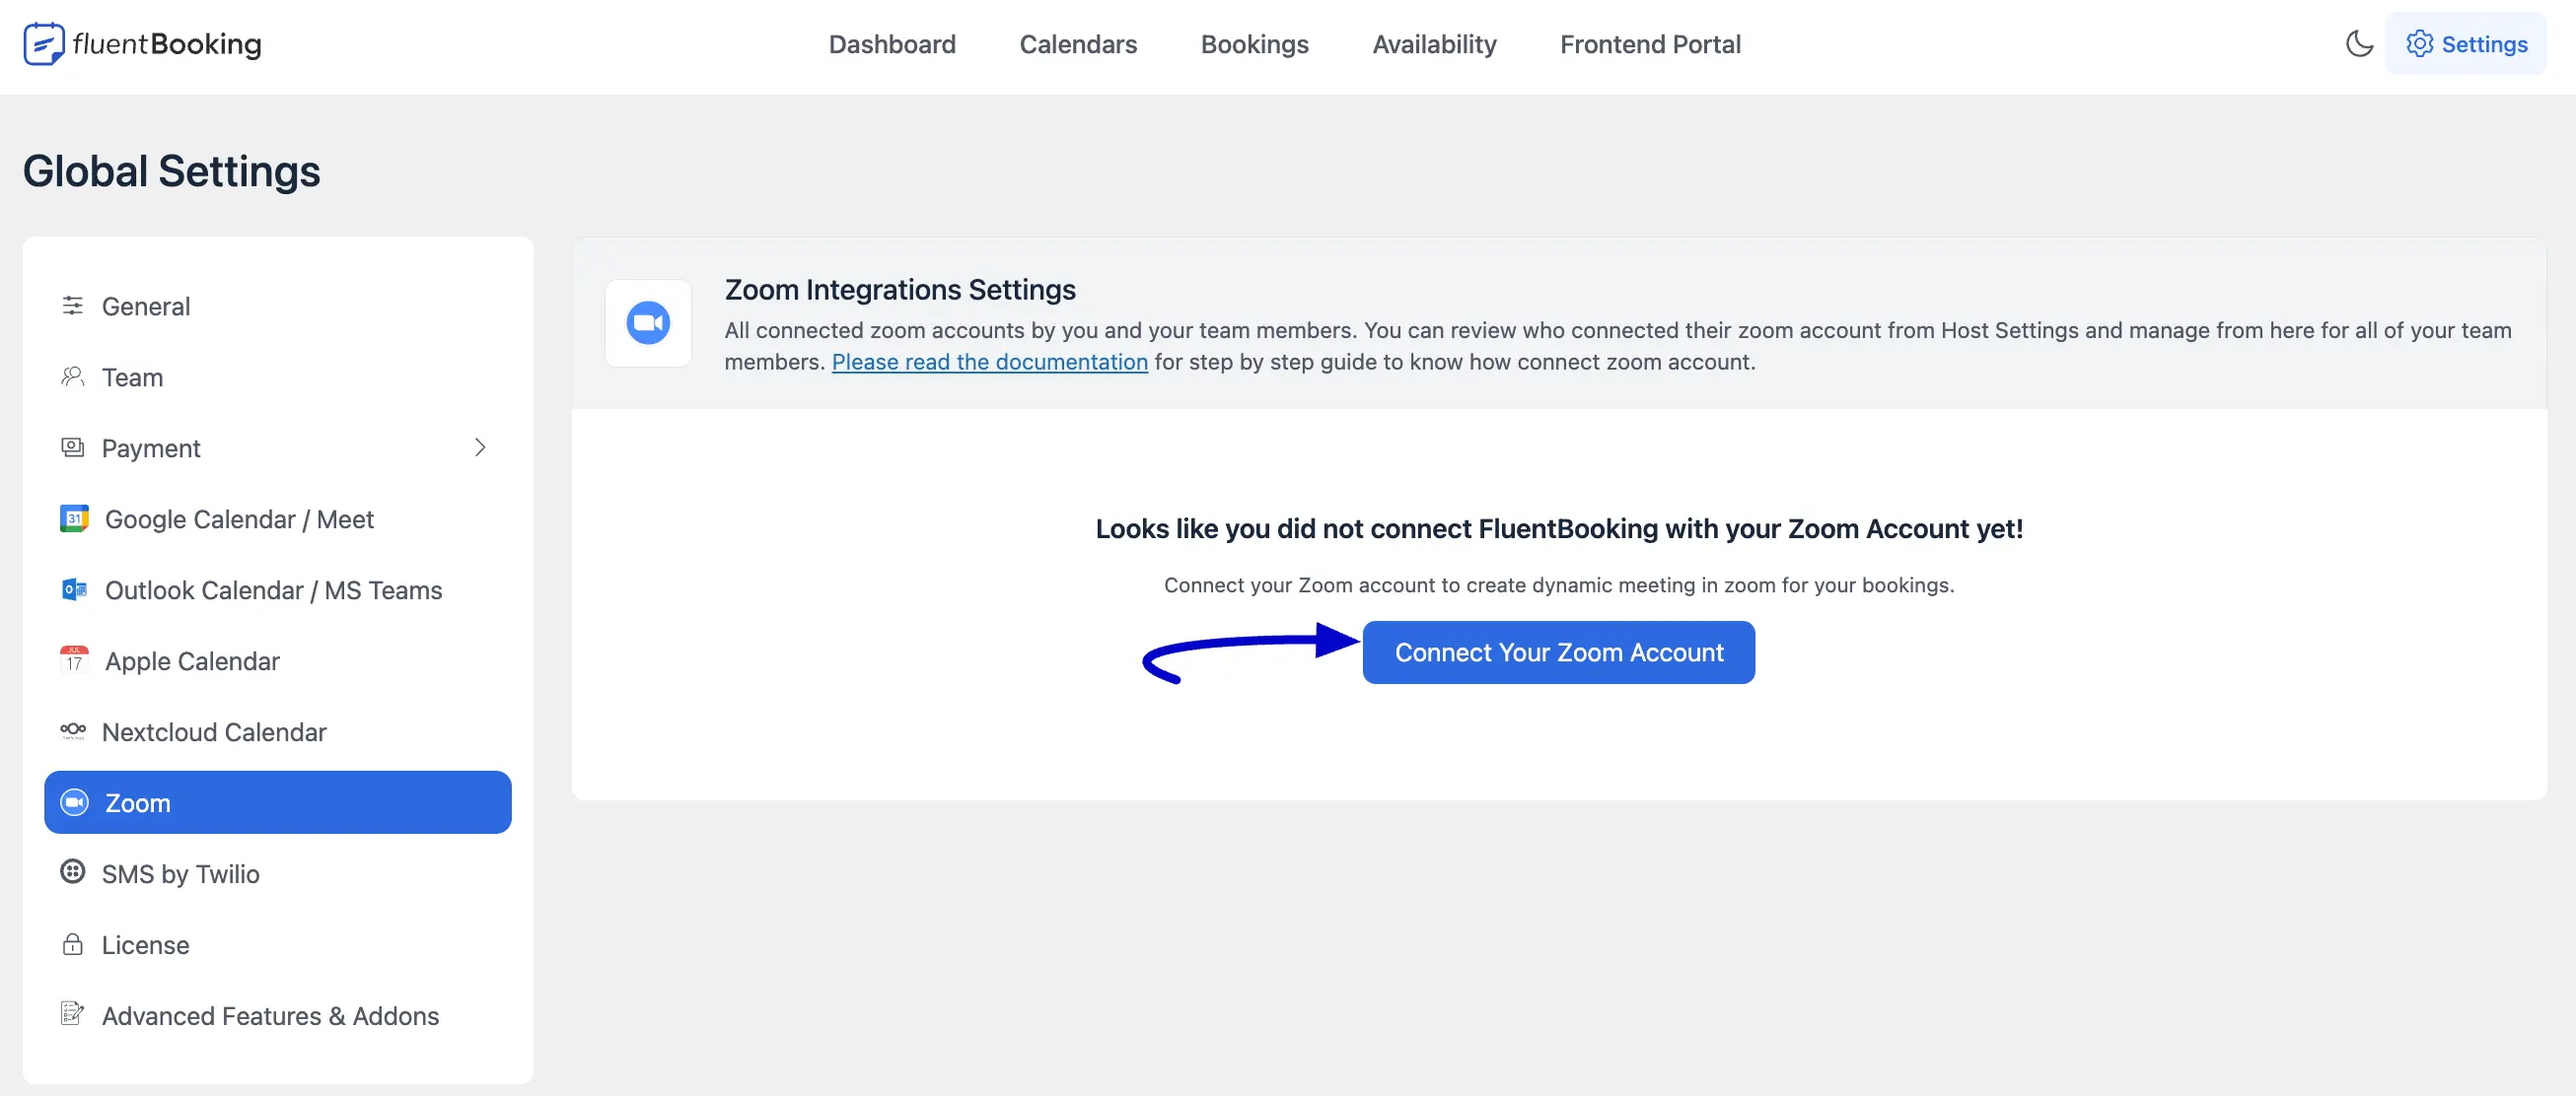
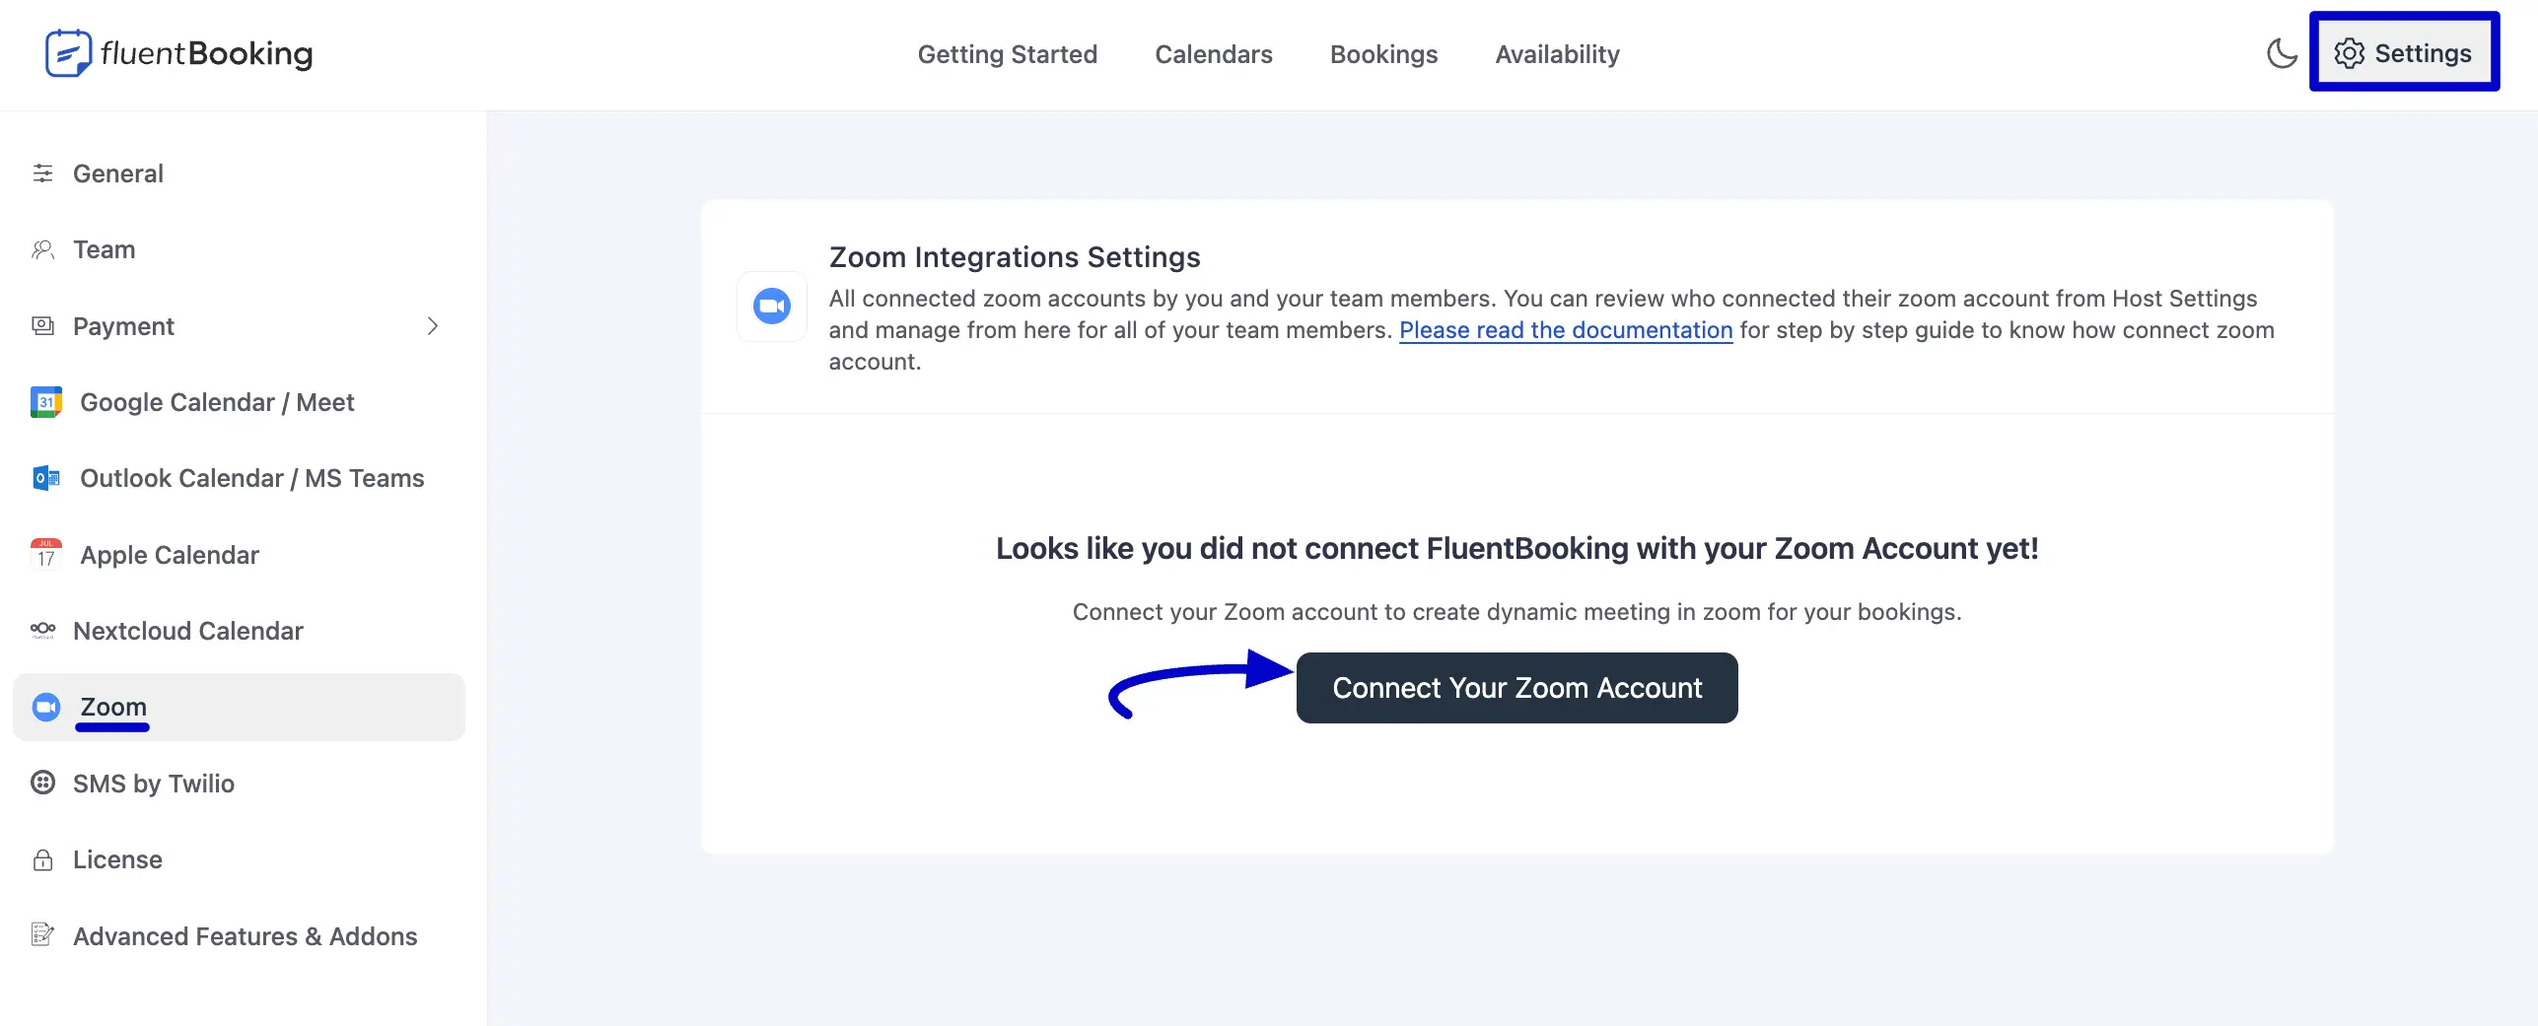
update doc and image Zoom Integration with FluentBooking

diff --git a/docs/integrations/zoom-integration-with-fluentbooking.md b/docs/integrations/zoom-integration-with-fluentbooking.md
@@ -9,6 +9,7 @@ Zoom integration simplifies the process of scheduling and handling online meetin
 
 To integrate Zoom with FluentBoooking you need to follow some straightforward steps described in this guideline.
 
+> [!Note]
 > The Zoom integration is only available in FluentBooking Pro. You will need the [FluentBooking Pro](https://fluentbooking.com/pricing/) plugin to access this feature.
 
 ::: tip Important
@@ -83,19 +84,19 @@ Once you have completed the above steps the Activation step will come. Simply cl
 
 ## Configuring Zoom With FluentBooking
 
-After creating the Zoom app properly now you can connect your Zoom with FluentBooking. Go to FluentBooking Dashboard and navigate to **Settings > Zoom** and you will see the button **Connect Your Zoom Account** click on the button.
+After creating the Zoom app properly now you can connect your Zoom with FluentBooking. From your WordPress dashboard, go to **Settings**, then click on the **Zoom** tab from the left-hand menu. You will see the **Connect Your Zoom Account** button — click on it.
 
 ![Configuring Zoom With FluentBooking](/images/integrations/zoom-integration-with-fluentbooking/configure-zoom-7.webp)
 
-Now a popup will appear paste your **copied** Zoom App **credentials** here and click on **Save & Validate Credentials.**
+A popup titled **Add New Zoom User Account** will appear. Paste your copied **Zoom Account ID**, **Zoom App Client ID**, and **Zoom App Secret Key** into the corresponding fields, then click **Save & Validate Credentials**.
 
 ![Save & Validate Credentials](/images/integrations/zoom-integration-with-fluentbooking/validate-8.webp)
 
-FluentBooking and Zoom are successfully connected, you can see the connected host here. If you want to connect another user account of FluentBooking with Zoom click the **Add New User Account** button.
+FluentBooking and Zoom are successfully connected, and you can see the connected host here. If you want to connect another user account of FluentBooking with Zoom, click the **Add New Zoom User Account** button.
 
 To connect another user account of FluentBooking with Zoom you need to create another app from another Zoom account and then repeat the same process to connect with Zoom.
 
-![Connect with Zoom](/images/integrations/zoom-integration-with-fluentbooking/9.webp)
+![Connect with Zoom](/images/integrations/zoom-integration-with-fluentbooking/connect-9.webp)
 
 ## Zoom Integration From Host Setting
 
